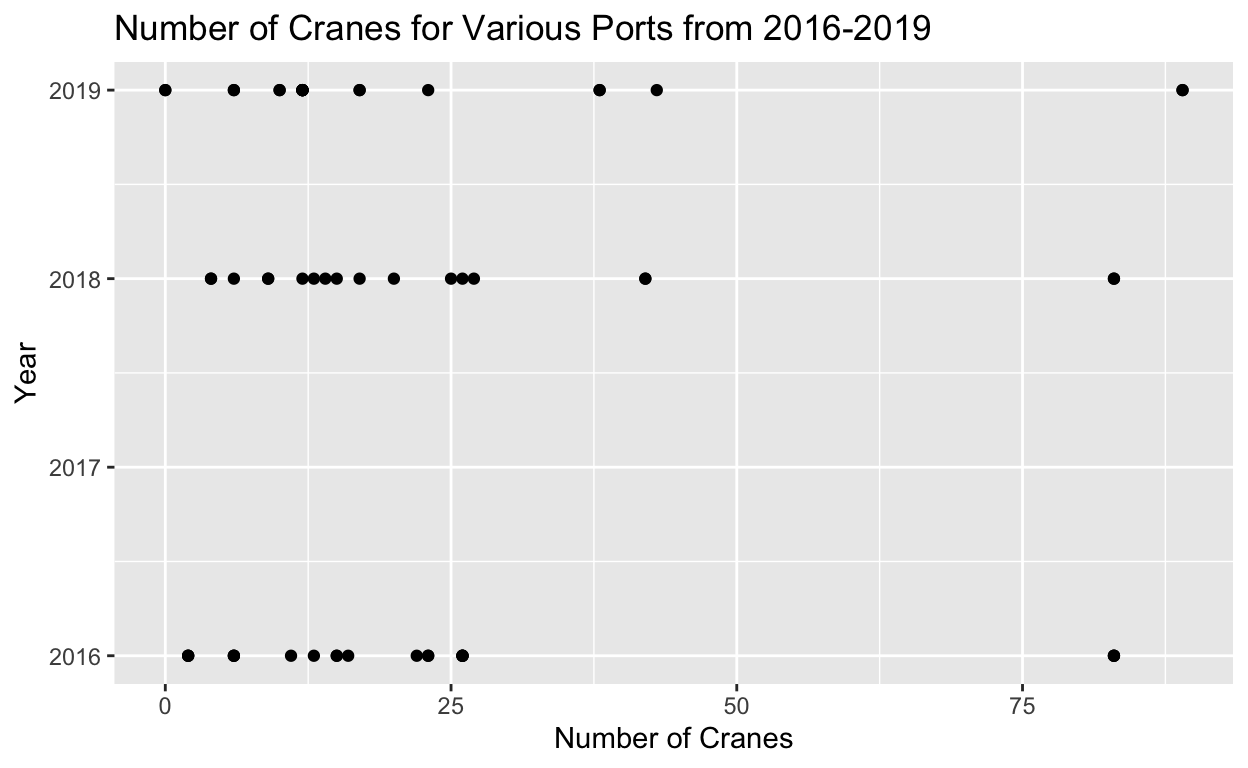
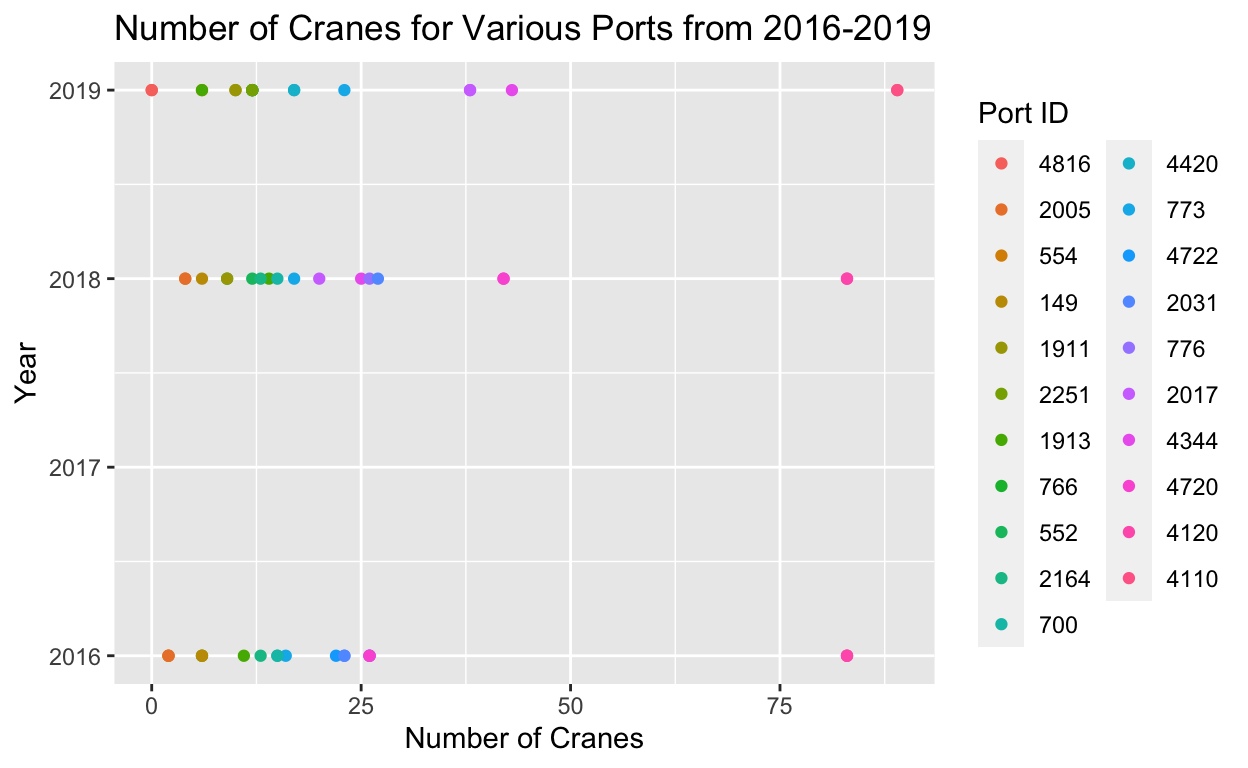
geniusbb

diff --git a/index.html b/index.html
@@ -1547,9 +1547,12 @@ Is there a relationship between the efficiency of a port and the number of shipp
 <span>  <span class='fu'><a href='https://tidyr.tidyverse.org/reference/drop_na.html'>drop_na</a></span><span class='op'>(</span><span class='op'>)</span><span class='op'>|&gt;</span></span>
 <span>  <span class='fu'><a href='https://dplyr.tidyverse.org/reference/filter.html'>filter</a></span><span class='op'>(</span><span class='va'>`Trade Type`</span><span class='op'>==</span><span class='st'>"TOTAL"</span><span class='op'>)</span></span>
 <span></span>
+<span><span class='va'>joined</span><span class='op'>$</span><span class='va'>`Port ID`</span><span class='op'>&lt;-</span> <span class='fu'><a href='https://rdrr.io/r/base/with.html'>with</a></span><span class='op'>(</span><span class='va'>joined</span>, <span class='fu'><a href='https://rdrr.io/r/stats/reorder.factor.html'>reorder</a></span><span class='op'>(</span><span class='va'>`Port ID`</span>, <span class='va'>`Number of Cranes`</span><span class='op'>)</span><span class='op'>)</span></span>
+<span></span>
+<span></span>
 <span><span class='va'>plot1</span><span class='op'>&lt;-</span><span class='fu'><a href='https://ggplot2.tidyverse.org/reference/ggplot.html'>ggplot</a></span><span class='op'>(</span>data <span class='op'>=</span> <span class='va'>joined</span>, mapping <span class='op'>=</span> <span class='fu'><a href='https://ggplot2.tidyverse.org/reference/aes.html'>aes</a></span><span class='op'>(</span>x<span class='op'>=</span><span class='va'>`Number of Cranes`</span>, y<span class='op'>=</span><span class='va'>Year</span><span class='op'>)</span><span class='op'>)</span><span class='op'>+</span></span>
-<span>              <span class='fu'><a href='https://ggplot2.tidyverse.org/reference/geom_point.html'>geom_point</a></span><span class='op'>(</span><span class='op'>)</span><span class='op'>+</span></span>
-<span>  <span class='fu'><a href='https://ggplot2.tidyverse.org/reference/labs.html'>labs</a></span><span class='op'>(</span>title<span class='op'>=</span><span class='st'>"Number of Cranes for Various Ports from 2016-2019"</span><span class='op'>)</span></span>
+<span>              <span class='fu'><a href='https://ggplot2.tidyverse.org/reference/geom_point.html'>geom_point</a></span><span class='op'>(</span><span class='fu'><a href='https://ggplot2.tidyverse.org/reference/aes.html'>aes</a></span><span class='op'>(</span>colour <span class='op'>=</span> <span class='fu'><a href='https://rdrr.io/r/base/factor.html'>factor</a></span><span class='op'>(</span><span class='va'>`Port ID`</span><span class='op'>)</span><span class='op'>)</span><span class='op'>)</span><span class='op'>+</span></span>
+<span>  <span class='fu'><a href='https://ggplot2.tidyverse.org/reference/labs.html'>labs</a></span><span class='op'>(</span>title<span class='op'>=</span><span class='st'>"Number of Cranes for Various Ports from 2016-2019"</span>, colour <span class='op'>=</span> <span class='st'>"Port ID"</span><span class='op'>)</span></span>
 <span><span class='va'>plot1</span></span></code></pre>
 </div>
 <img src="index_files/figure-html5/unnamed-chunk-1-1.png" width="624" />
